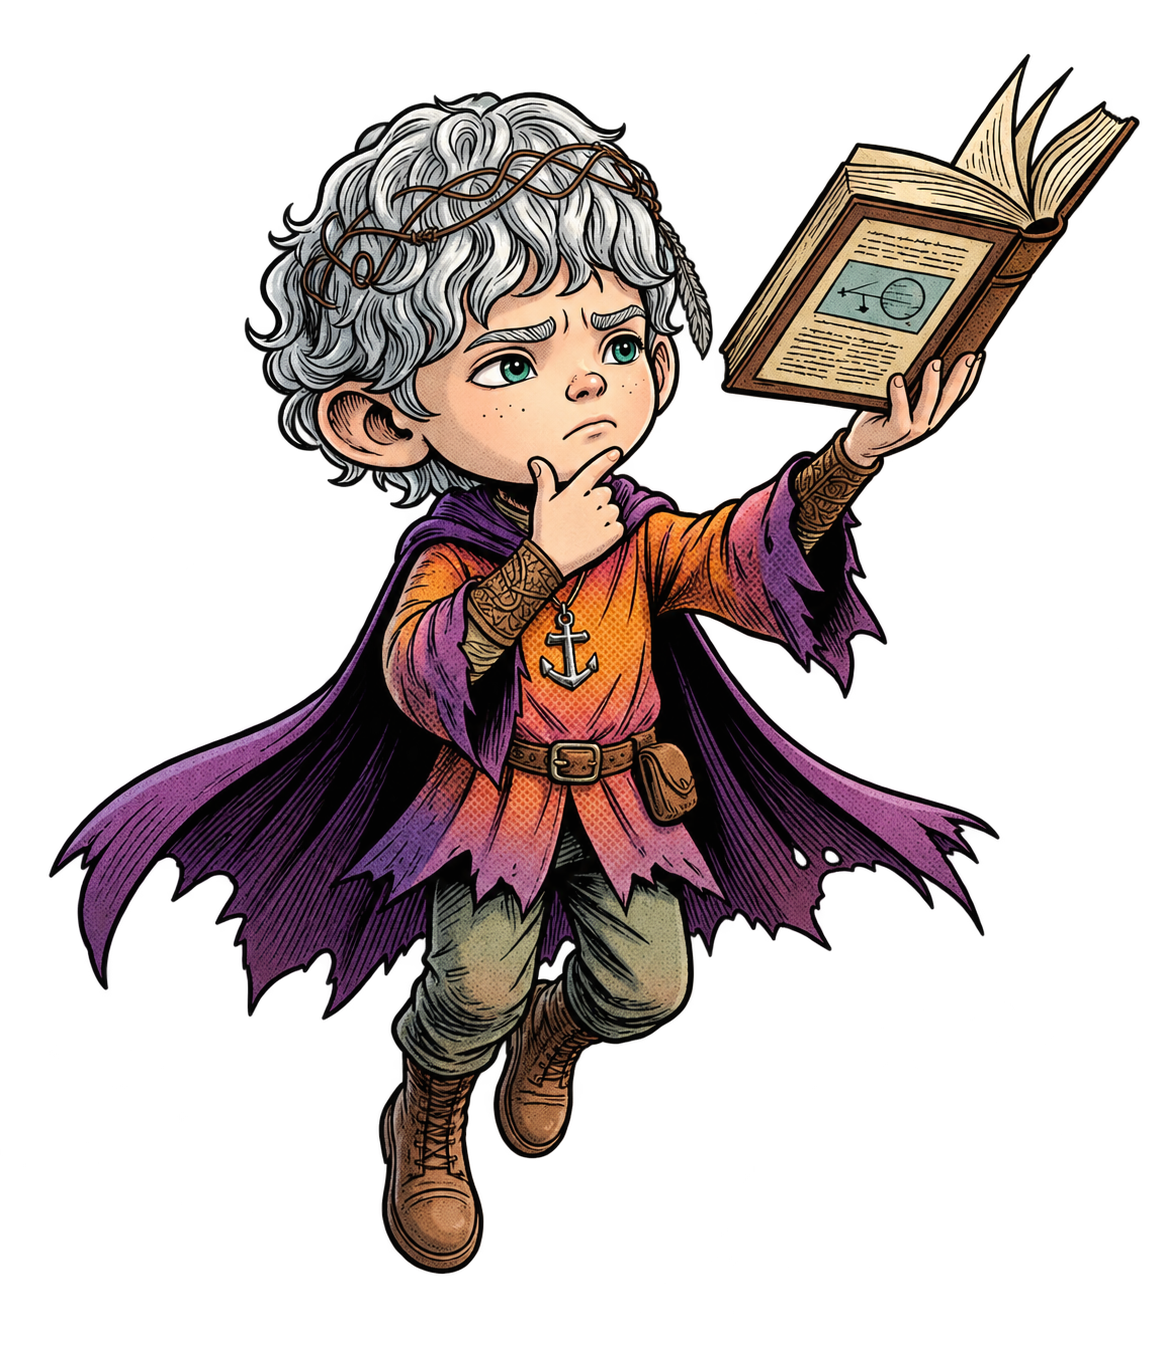
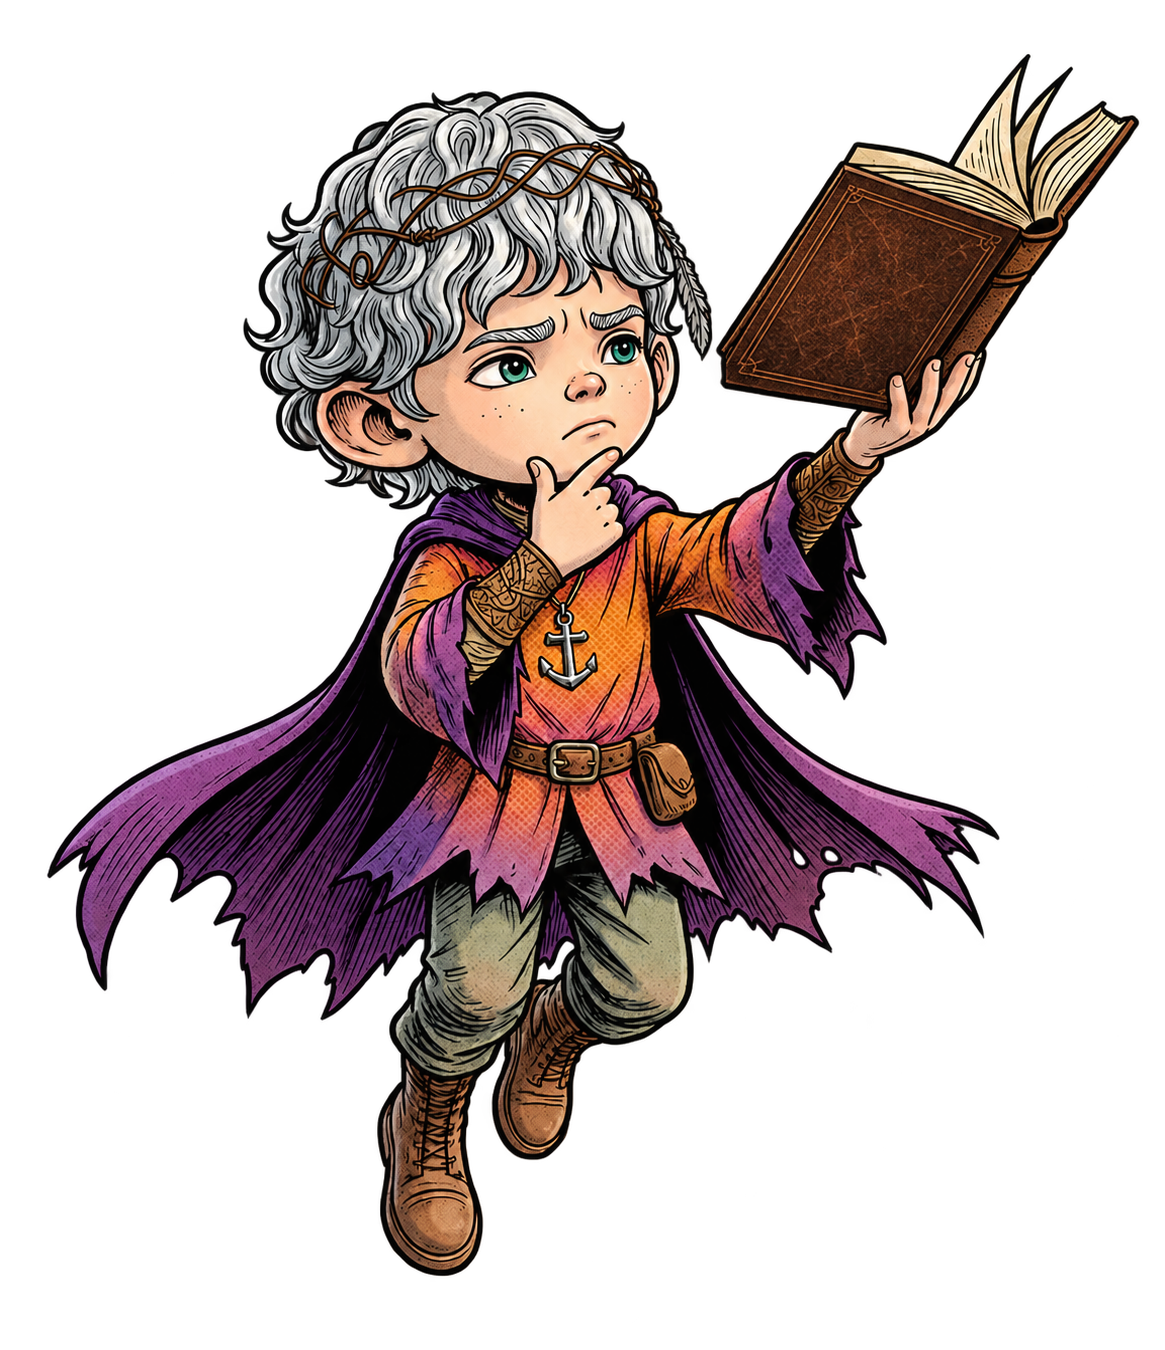
Fix scholar book back cover and Korean profile wording

Changed region(s): [[0.0309, 0.0311, 0.9579, 0.9644], [0.618, 0.4978, 0.6489, 0.5289]]

diff --git a/index.html b/index.html
@@ -167,7 +167,7 @@
    <nav class="aelin-screen-nav" aria-label="Aelin 소개 화면 선택"><span class="aelin-progress-number" aria-hidden="true">01 / 06</span><div class="aelin-step-list"><button type="button" data-aelin-step="0" aria-label="1번 HANA와의 첫 만남 보기">인플루언서</button><button type="button" data-aelin-step="1" aria-label="2번 장소 화면 보기">장소</button><button type="button" data-aelin-step="2" aria-label="3번 전달 화면 보기">전달</button><button type="button" data-aelin-step="3" aria-label="4번 탐색 화면 보기">탐색</button><button type="button" data-aelin-step="4" aria-label="5번 소장 화면 보기">소장</button><button type="button" data-aelin-step="5" aria-label="6번 VESPER LIMITED Preview 보기">제품</button></div></nav>
   </div>
   <div class="aelin-stage" aria-label="Aelin 모바일 화면">
-   <img class="aelin-scholar" src="assets/characters/aelin-scholar.webp" width="1165" height="1350" alt="" aria-hidden="true" loading="lazy" decoding="async" data-manual-media>
+   <img class="aelin-scholar" src="assets/characters/aelin-scholar.webp?v=20261016-book-back" width="1165" height="1350" alt="" aria-hidden="true" loading="lazy" decoding="async" data-manual-media>
    <figure class="aelin-device aelin-device-video" data-screen="0" style="--video-ratio:9/16;--video-width-ratio:0.5625"><div class="aelin-device-surface"><video class="aelin-screen" controls muted loop playsinline preload="none" data-poster="assets/aelin/aelin01-poster.webp?v=20261016-first-frame" aria-label="HANA와의 첫 만남"><source data-src="assets/aelin/aelin01.mp4?v=20261016-silent" type="video/mp4">이 브라우저에서는 영상을 재생할 수 없습니다.</video></div><figcaption><small>01 / INFLUENCERS</small><h3>HANA와의 첫 만남</h3><p>에일린 세계관의 다양한 인플루언서를 만나보세요.</p></figcaption></figure>
 <figure class="aelin-device" data-screen="1"><div class="aelin-device-surface"><svg class="aelin-screen" xmlns="http://www.w3.org/2000/svg" viewBox="18 18 391 903" role="img" aria-labelledby="aelin-screen-0-title"><title id="aelin-screen-0-title">서울 지도와 남산서울타워의 장소 정보를 보여주는 Aelin 모바일 화면</title><image href="assets/aelin/product-screens-lossless.webp" width="1672" height="940"/></svg></div><figcaption><small>02 / PLACES</small><h3>기억이 머무는 장소.</h3><p>지도 위의 장소에서 카드와 사람, 지역의 이야기를 탐색합니다.</p></figcaption></figure>
 <figure class="aelin-device" data-screen="2"><div class="aelin-device-surface"><svg class="aelin-screen" xmlns="http://www.w3.org/2000/svg" viewBox="432 18 391 903" role="img" aria-labelledby="aelin-screen-1-title"><title id="aelin-screen-1-title">카드 전달과 수락 진행 경로를 보여주는 Aelin 모바일 화면</title><image href="assets/aelin/product-screens-lossless.webp" width="1672" height="940"/></svg></div><figcaption><small>03 / CONNECTION</small><h3>한 장을 건네는 순간.</h3><p>직접 고른 카드를 상대에게 건네고, 수락까지 이어지는 흐름을 만듭니다.</p></figcaption></figure>
@@ -209,7 +209,7 @@
 <article class="career-item"><div class="career-period">엔트리브소프트 · 2019–2024</div><div class="career-content"><h3>3D 배경 그래픽 파트장</h3><p>모바일 전략 시뮬레이션과 상용 스포츠 게임을 제작했습니다.</p></div></article>
 <article class="career-item"><div class="career-period">넷마블 외 · 2006–2019</div><div class="career-content"><p>게임 배경 아트와 레벨 디자인,<br>R&amp;D 및 팀 리딩을 경험했습니다.<br>마구마구, 오즈 크로니클, 마구더리얼, 이데아 등<br>다양한 상용 게임 프로젝트에 참여했습니다.</p></div></article></div></section><section id="lab" class="lab scene-section" data-scene="6" data-chapter="AI IN PRACTICE"><div class="lab-pin"><div class="section-top"><p class="eyebrow">04 / AI IN PRACTICE</p></div><div class="lab-heading"><h2>새로운 도구로<br><span>명확한 의도를.</span></h2><p class="lab-intro">조사하고, 기준을 세우고, 만들어 확인합니다.<br>AI는 각 단계의 실험을 돕고, 결과는 직접 검토하며<br>다음 작업에 반영합니다.</p></div><div class="workflow-graph"><div class="workflow-path" aria-hidden="true"><span></span></div><ol class="process-list"><li><span class="workflow-node">01</span><p class="eyebrow">SCAN</p><h3>새로운 가능성을 살핍니다.</h3><p>모델·도구와 제작 방식의 변화를 꾸준히 살핍니다. 작은 실험으로 실제 제작에 유효한지 검증하고, 효과가 확인된 방식을 작업 흐름에 반영합니다.</p></li><li><span class="workflow-node">02</span><p class="eyebrow">FRAME</p><h3>경험의 구조와 판단 기준을 설계합니다.</h3><p>장르와 플랫폼, 사용자의 행동과 감정, 공간과 시스템의 관계를 정의합니다. 제작에 필요한 맥락과 결과를 판단할 기준을 세웁니다.</p></li><li><span class="workflow-node">03</span><p class="eyebrow">BUILD</p><h3>가능성을 작동하는 프로토타입으로 만듭니다.</h3><p>AI 에이전트와 생성 도구를 작업에 연결해 코드·비주얼·콘텐츠·인터랙션을 구현합니다. 각 요소를 하나의 경험 흐름으로 통합합니다.</p></li><li><span class="workflow-node">04</span><p class="eyebrow">EVALUATE</p><h3>실제 경험을 검토하고, 다음 제작에 반영합니다.</h3><p>실제 사용 환경에서 기능과 성능, 플레이의 감정 흐름과 시각적 의도를 살핍니다. 검토 결과를 다음 실험과 제작 방식에 반영합니다.</p></li></ol></div></div></section>    <section id="about" class="about scene-section section-pad" data-scene="7" data-chapter="JAY ON ART">
       <div class="section-top reveal"><p class="eyebrow">05 / THE PERSON BEHIND THE WORLDS</p></div>
-      <div class="about-layout"><figure class="profile-portrait reveal"><picture class="responsive-media"><source type="image/webp" sizes="(max-width: 760px) 92vw, 50vw" srcset="assets/choi-hyojae-profile-480.webp 480w, assets/choi-hyojae-profile-960.webp 960w, assets/choi-hyojae-profile-1060.webp 1060w"><img src="assets/choi-hyojae-profile.jpg" width="1060" height="1484" alt="최효재 프로필 사진" loading="lazy" decoding="async"></picture></figure><div class="about-copy reveal"><h2 class="profile-name">최효재</h2><p class="eyebrow profile-signature">JAY ON ART</p><p class="profile-affiliation">YIGO · Creative Leader</p><p class="lead">함께 방향을 정하고, 끝까지 만듭니다.</p><p>서로 다른 의견에서 필요한 단서를 찾고, 선택의 이유를 동료들과 나눕니다. 각자의 강점이 살아나면서도 하나의 결과로 이어지도록 우선순위를 정하고 제작을 이끕니다.</p><p>현재 YIGO.에서 에일린을 기획·개발하고 있습니다. 일상의 작은 기억이 누군가와 관계를 맺는 계기가 될 수 있을지, 직접 만들며 답을 찾아가고 있습니다.</p></div></div>
+      <div class="about-layout"><figure class="profile-portrait reveal"><picture class="responsive-media"><source type="image/webp" sizes="(max-width: 760px) 92vw, 50vw" srcset="assets/choi-hyojae-profile-480.webp 480w, assets/choi-hyojae-profile-960.webp 960w, assets/choi-hyojae-profile-1060.webp 1060w"><img src="assets/choi-hyojae-profile.jpg" width="1060" height="1484" alt="최효재 프로필 사진" loading="lazy" decoding="async"></picture></figure><div class="about-copy reveal"><h2 class="profile-name">최효재</h2><p class="eyebrow profile-signature">JAY ON ART</p><p class="profile-affiliation">YIGO · Creative Leader</p><p class="lead">함께 방향을 정하고, 끝까지 만듭니다.</p><p>서로 다른 의견에서 필요한 단서를 찾고, 선택의 이유를 동료들과 나눕니다. 각자의 강점이 살아나면서도 하나의 결과로 이어지도록 우선순위를 정하고 제작을 이끕니다.</p><p>현재 와이고에서 에일린을 기획·개발하고 있습니다. 일상의 작은 기억이 누군가와 관계를 맺는 계기가 될 수 있을지, 직접 만들며 답을 찾아가고 있습니다.</p></div></div>
     </section><section id="links" class="closing scene-section section-pad" data-scene="8" data-chapter="KEEP EXPLORING"><p class="eyebrow reveal">THERE'S MORE TO EXPLORE</p><h2 class="reveal">함께 만들 다음 경험을<br><span>이야기해요.</span></h2><div class="closing-links reveal"><a href="https://www.artstation.com/jayonart" target="_blank" rel="noopener noreferrer"><span><small>THE WORK</small><span class="link-label">ArtStation</span></span><span class="closing-arrow" aria-hidden="true">↗</span></a><a href="resume.html"><span><small>THE EXPERIENCE</small><span class="link-label">Resume</span></span><span class="closing-arrow" aria-hidden="true">↗</span></a></div></section></main>
   <footer><a class="footer-mark" href="#top" aria-label="Jay on Art — 맨 위로"><svg class="brand-logo logo-horizontal" aria-hidden="true" focusable="false" xmlns="http://www.w3.org/2000/svg" width="1096" height="302" viewBox="0 0 1096 302" role="img" aria-labelledby="index-wordmark-3-title index-wordmark-3-desc">
   <title id="index-wordmark-3-title">Jay on Art — horizontal</title>

diff --git a/font.html b/font.html
@@ -189,7 +189,7 @@
 <article class="font-sample"><h3 class="type-meta">DISCOVER</h3><div class="font-current-copy"><p class="type-intro">작업 사이에서 시작된 개인적인 탐구</p></div></article>
 <article class="font-sample"><h3 class="type-meta">03 / EXPERIENCE</h3><div class="font-current-copy"><p class="type-intro">배경 아티스트에서 파트 리더, 서비스 기획·개발까지.<br>만드는 대상과 맡는 책임을 넓혀왔습니다.</p></div></article>
 <article class="font-sample"><h3 class="type-meta">04 / AI IN PRACTICE</h3><div class="font-current-copy"><p class="type-intro">조사하고, 기준을 세우고, 만들어 확인합니다.<br>AI는 각 단계의 실험을 돕고, 결과는 직접 검토하며<br>다음 작업에 반영합니다.</p></div></article>
-<article class="font-sample"><h3 class="type-meta">05 / THE PERSON BEHIND THE WORLDS</h3><div class="font-current-copy"><p class="type-intro"><strong>함께 방향을 정하고, 끝까지 만듭니다.</strong></p><p>서로 다른 의견에서 필요한 단서를 찾고, 선택의 이유를 동료들과 나눕니다. 각자의 강점이 살아나면서도 하나의 결과로 이어지도록 우선순위를 정하고 제작을 이끕니다.</p><p>현재 YIGO.에서 에일린을 기획·개발하고 있습니다. 일상의 작은 기억이 누군가와 관계를 맺는 계기가 될 수 있을지, 직접 만들며 답을 찾아가고 있습니다.</p></div></article></div>
+<article class="font-sample"><h3 class="type-meta">05 / THE PERSON BEHIND THE WORLDS</h3><div class="font-current-copy"><p class="type-intro"><strong>함께 방향을 정하고, 끝까지 만듭니다.</strong></p><p>서로 다른 의견에서 필요한 단서를 찾고, 선택의 이유를 동료들과 나눕니다. 각자의 강점이 살아나면서도 하나의 결과로 이어지도록 우선순위를 정하고 제작을 이끕니다.</p><p>현재 와이고에서 에일린을 기획·개발하고 있습니다. 일상의 작은 기억이 누군가와 관계를 맺는 계기가 될 수 있을지, 직접 만들며 답을 찾아가고 있습니다.</p></div></article></div>
       <p class="font-note">본문은 단어 단위로 자연스럽게 줄바꿈합니다. Discover의 보조 문구는 마침표를 붙이지 않습니다. 작품 제목과 브랜드 워드마크는 고유 표기를 유지합니다. 프로필에는 제공된 최효재 실사진을 사용하며, 이미지에는 원본 해상도 이내의 반응형 WebP를 제공합니다.</p>
     </section>
   </main>
